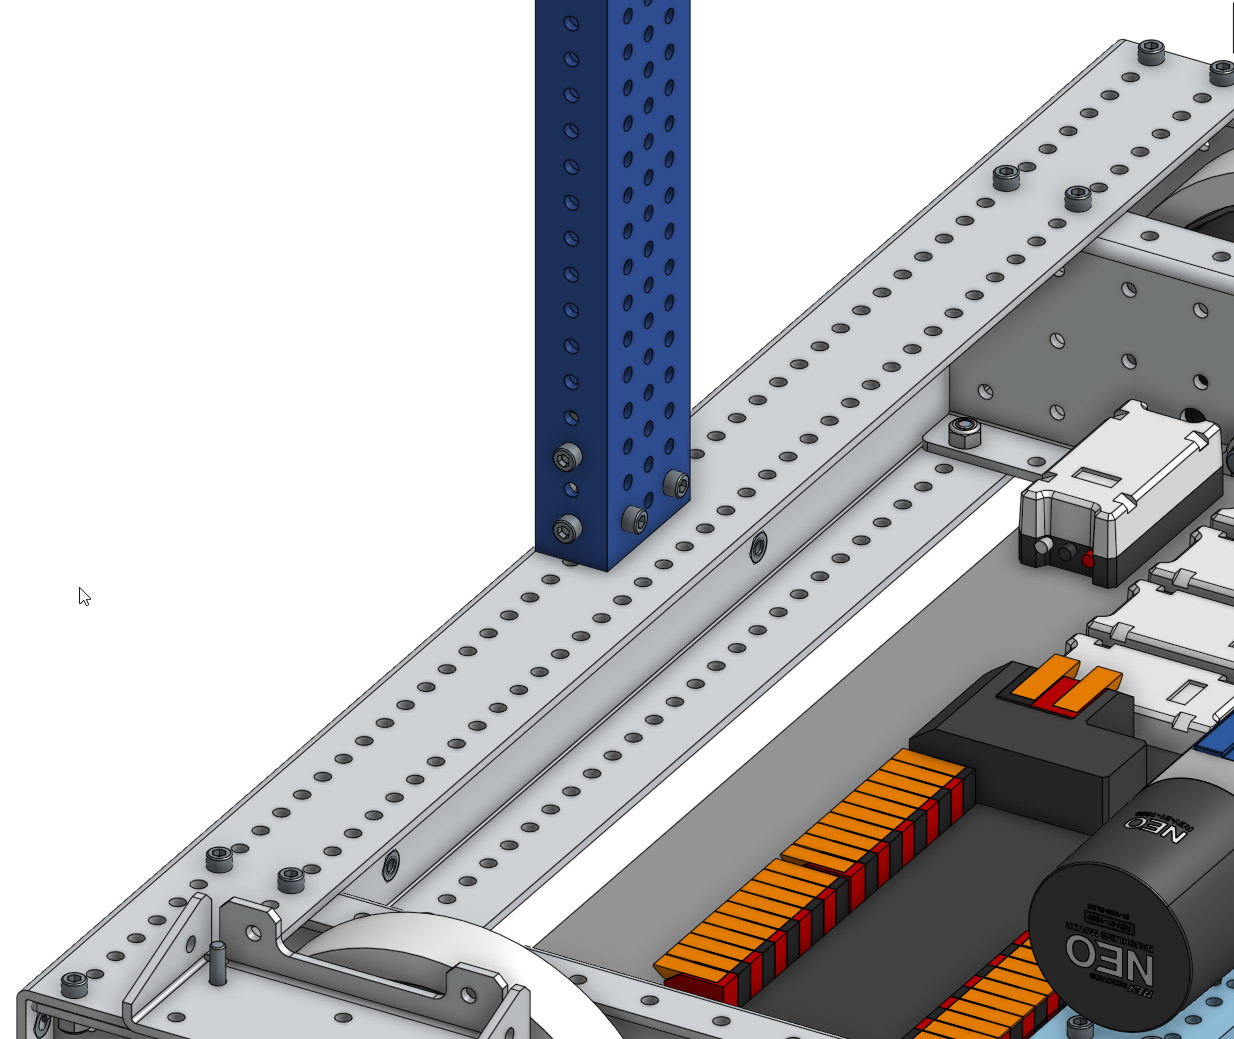
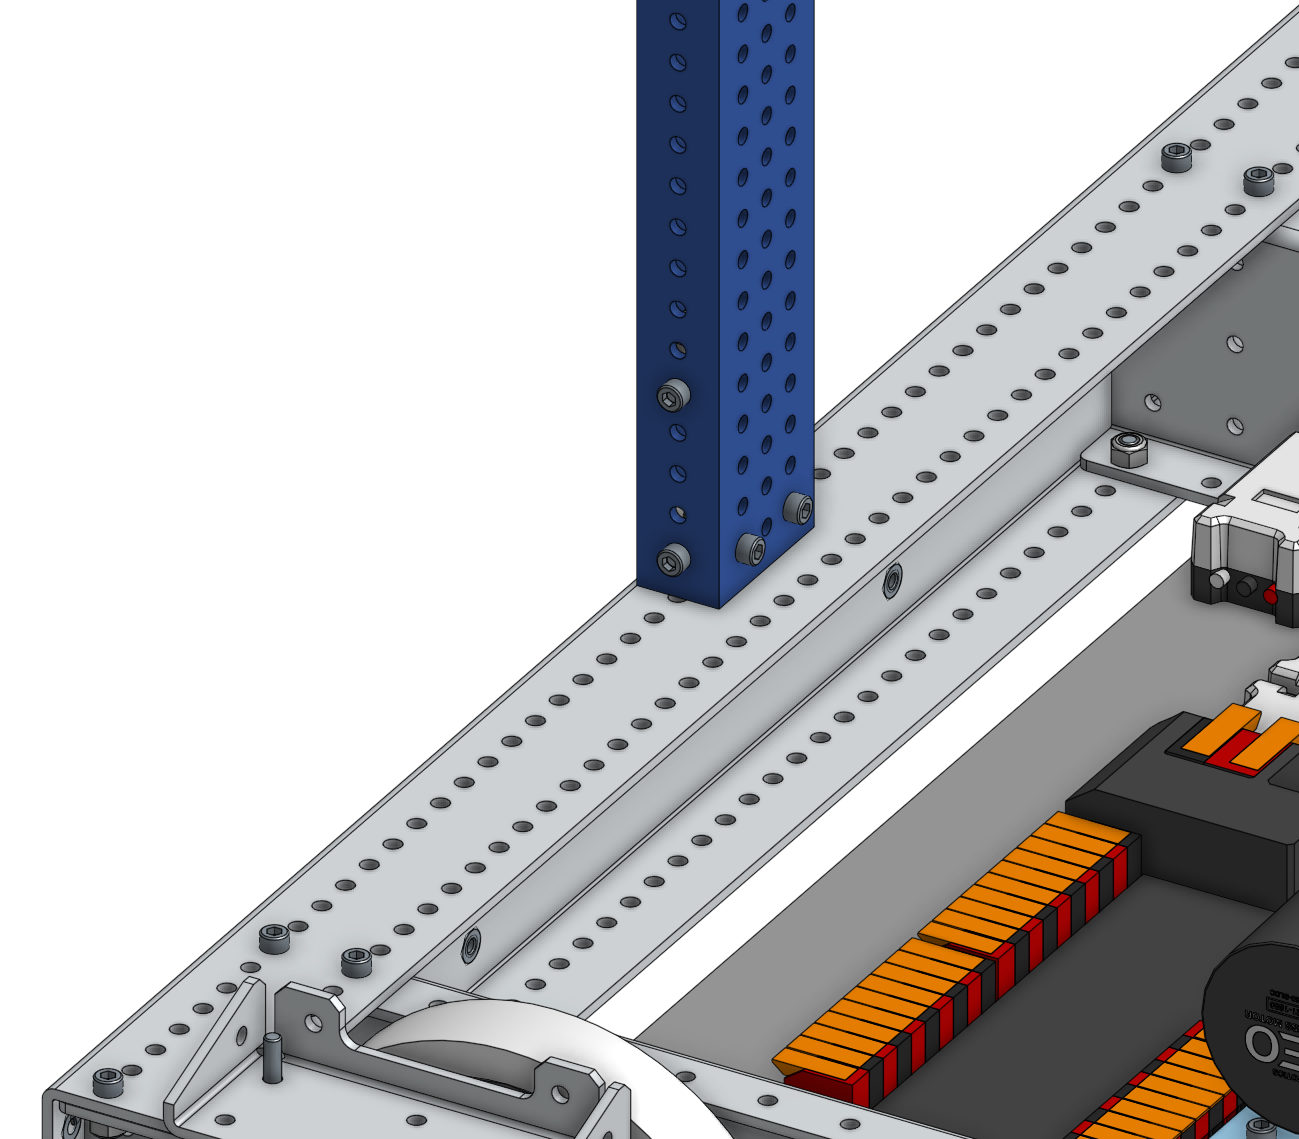
fixed climber issues

diff --git a/docs/manual/climb.md b/docs/manual/climb.md
@@ -10,9 +10,17 @@ import Image from '@theme/IdealImage';
 
 <div style={{textAlign: 'center'}}><div style={{overflow: 'hidden', display: 'inline-block', margin: '0.00px 0.00px'}}><span style={{overflow: 'hidden', display: 'inline-block', margin: '0.00px 0.00px', border: '0.00px solid #000000', transform: 'rotate(0.00rad) translateZ(0px)',  width: '624.00px', height: '662.67px'}}><Image autoLoad={"true"} img={require("/static/media/Climb/p1/image_0.png")} style={{ width: '624.00px', height: '662.67px', marginLeft: '0.00px', marginTop: '0.00px', transform: 'rotate(0.00rad) translateZ(0px)', maxWidth: "none"}}></Image></span></div></div>
 
+<p><br /> </p>
+
 <div style={{pageBreakAfter: 'always'}}></div>
 
-<p><br /> </p>
+:::note
+The barb is made up of a few complex polycarbonate parts that are very difficult to machine manually. These can be purchased from vendors or made on a machine capable of making them. Here are the [DXFs](https://drive.google.com/drive/folders/1sUP19WCUuQKzJp3KsBW6bazIK08D-APO) for teams who wish to use an advanced machine to make them, you will need two bodies and four fingers.
+:::
+
+:::danger
+The 02_Deep_Climb_Post had incorrect hole placement for the upper tube plug. It was previously listed as 1.5" from the bottom, that has been changed to 2.5" from the bottom. This shifts everything that was attached at the previous 1.5" height up to the new 2.5" height.
+:::
 
 ## Architecture And Functionality
 
@@ -154,11 +162,15 @@ Once those holes have been drilled, the part is complete!
 
 ### 02_Deep_Climb_Post
 
+:::warning
+This part has been updated, ensure that you have holes 2.5" from the bottom instead of 1.5" from the bottom.
+:::
+
 You will need a single deep climb post, there will be holes on both the 2&rdquo; and 1&rdquo; side to accommodate some tube plugs. You can assume that the holes on the 1&rdquo; face have the same spacing as the ones on the 2&rdquo; face.
 
 <p><br /> </p>
 
-<div style={{ textAlign: 'center'}}><div style={{overflow: 'hidden', display: 'inline-block', margin: '0.00px 0.00px'}}><span style={{overflow: 'hidden', display: 'inline-block', margin: '0.00px 0.00px', border: '0.00px solid #000000', transform: 'rotate(0.00rad) translateZ(0px)',  width: '624.00px', height: '316.00px'}}><Image autoLoad={"true"} img={require("/static/media/Climb/p1/image_17.png")} style={{ width: '624.00px', height: '316.00px', marginLeft: '0.00px', marginTop: '0.00px', transform: 'rotate(0.00rad) translateZ(0px)', maxWidth: "none"}}></Image></span></div></div>
+<div style={{ textAlign: 'center'}}><div style={{overflow: 'hidden', display: 'inline-block', margin: '0.00px 0.00px'}}><span style={{overflow: 'hidden', display: 'inline-block', margin: '0.00px 0.00px', border: '0.00px solid #000000', transform: 'rotate(0.00rad) translateZ(0px)',  width: '624.00px', height: '330.00px'}}><Image autoLoad={"true"} img={require("/static/media/Climb/p1/image_17.png")} style={{ width: '624.00px', height: '316.00px', marginLeft: '0.00px', marginTop: '0.00px', transform: 'rotate(0.00rad) translateZ(0px)', maxWidth: "none"}}></Image></span></div></div>
 
 <div style={{pageBreakAfter: 'always'}}></div>
 
@@ -326,17 +338,17 @@ Start by adding tube plugs to the bottom and top of the 02_Deep_Climb_Barb_Arm, 
 
 <p><br /> </p>
 
-The same can be done for the 9&rdquo; long 2&rdquo;x1&rdquo; 02_Deep_Cimb_Post except one tube plug will be located close to the other. The upper tube plug&rsquo;s side holes will be 1.5&rdquo; from the bottom or 1&rdquo; up from the holes on the lower tube plug. Once again use 0.375&rdquo; 10-32 bolts and use thread locker.
+The same can be done for the 9&rdquo; long 2&rdquo;x1&rdquo; 02_Deep_Climb_Post except one tube plug will be located close to the other. The upper tube plug&rsquo;s side holes will be 2.5&rdquo; from the bottom or 2&rdquo; up from the holes on the lower tube plug. Once again use 0.375&rdquo; 10-32 bolts and use thread locker.
 
 <p><br /> </p>
 
-<div style={{ textAlign: 'center'}}><div style={{overflow: 'hidden', display: 'inline-block', margin: '0.00px 0.00px'}}><span style={{overflow: 'hidden', display: 'inline-block', margin: '0.00px 0.00px', border: '0.00px solid #000000', transform: 'rotate(0.00rad) translateZ(0px)',  width: '176.69px', height: '258.50px'}}><Image autoLoad={"true"} img={require("/static/media/Climb/p2/image_22.png")} style={{ width: '176.69px', height: '258.50px', marginLeft: '0.00px', marginTop: '0.00px', transform: 'rotate(0.00rad) translateZ(0px)', maxWidth: "none"}}></Image></span></div><div style={{overflow: 'hidden', display: 'inline-block', margin: '0.00px 0.00px'}}><span style={{overflow: 'hidden', display: 'inline-block', margin: '0.00px 0.00px', border: '0.00px solid #000000', transform: 'rotate(0.00rad) translateZ(0px)',  width: '301.25px', height: '207.68px'}}><Image autoLoad={"true"} img={require("/static/media/Climb/p2/image_23.png")} style={{ width: '436.75px', height: '286.88px', marginLeft: '-50.81px', marginTop: '-36.60px', transform: 'rotate(0.00rad) translateZ(0px)', maxWidth: "none"}}></Image></span></div></div>
+<div style={{ textAlign: 'center'}}><div style={{overflow: 'hidden', display: 'inline-block', margin: '0.00px 0.00px'}}><span style={{overflow: 'hidden', display: 'inline-block', margin: '0.00px 0.00px', border: '0.00px solid #000000', transform: 'rotate(0.00rad) translateZ(0px)',  width: '176.69px', height: '300.50px'}}><Image autoLoad={"true"} img={require("/static/media/Climb/p2/image_22.png")} style={{ width: '176.69px', height: '300.50px', marginLeft: '0.00px', marginTop: '0.00px', transform: 'rotate(0.00rad) translateZ(0px)', maxWidth: "none"}}></Image></span></div><div style={{overflow: 'hidden', display: 'inline-block', margin: '0.00px 0.00px'}}><span style={{overflow: 'hidden', display: 'inline-block', margin: '0.00px 0.00px', border: '0.00px solid #000000', transform: 'rotate(0.00rad) translateZ(0px)',  width: '301.25px', height: '207.68px'}}><Image autoLoad={"true"} img={require("/static/media/Climb/p2/image_23.png")} style={{ width: '436.75px', height: '286.88px', marginLeft: '-50.81px', marginTop: '-36.60px', transform: 'rotate(0.00rad) translateZ(0px)', maxWidth: "none"}}></Image></span></div></div>
 
 <div style={{pageBreakAfter: 'always'}}></div>
 
 <p><br /> </p>
 
-Now we will attach the 02_Deep_Cimb_Post to the chassis, it must be centered in the chassis on the outer bolt grid. Use two 10-32 0.5&rdquo; bolts with threadlocker.
+Now we will attach the 02_Deep_Climb_Post to the chassis, it must be centered in the chassis on the outer bolt grid. Use two 10-32 0.5&rdquo; bolts with threadlocker.
 
 <p><br /> </p>
 
@@ -344,7 +356,7 @@ Now we will attach the 02_Deep_Cimb_Post to the chassis, it must be centered in 
 
 <p><br /> </p>
 
-Next grab your hinge and 02_Deep_Cimb_Reaction_Bar. Center the 02_Deep_Cimb_Reaction_Bar with the upper tube plug on the 02_Deep_Cimb_Post, then place the hinge in front and add two 1.5&rdquo; 10-32 bolts, secure with thread locker.
+Next grab your hinge and 02_Deep_Cimb_Reaction_Bar. Center the 02_Deep_Cimb_Reaction_Bar with the upper tube plug on the 02_Deep_Climb_Post, then place the hinge in front and add two 1.5&rdquo; 10-32 bolts, secure with thread locker.
 
 <p><br /> </p>
 

diff --git a/blog/2025-02-08.md b/blog/2025-02-08.md
@@ -1,0 +1,10 @@
+---
+slug: Major correction to 02_Deep_Climb_Post
+title: Major correction to 02_Deep_Climb_Post
+tags: [Everybot]
+date: 2025-02-08T18:00
+---
+
+The 02_Deep_Climb_Post placed the holes for the upper tube plug an inch lower than intended. The holes are now at 2.5". We have updated the drawings, manual and CAD to reflect this change.
+
+<!-- truncate -->
